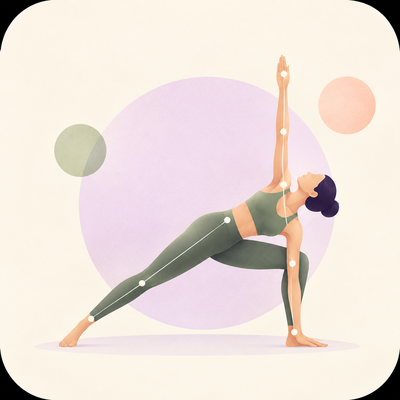
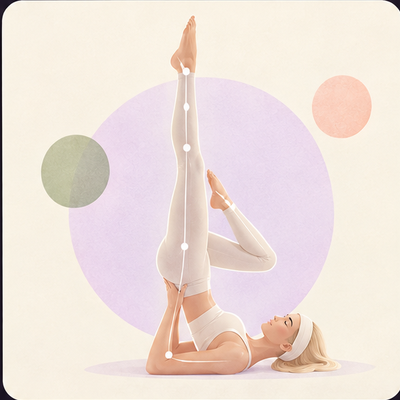
Onboarding: illustrate all four pose-interest cards
Dynamic Flow, Inversions & Balancing and Backbend were showing the calm
placeholder disc. All four now carry their own illustration, so the
placeholder branch goes with them.

diff --git a/src/app/onboarding/yoga-type/page.tsx b/src/app/onboarding/yoga-type/page.tsx
@@ -22,13 +22,12 @@ const interestedPosesSchema = z.object({
 type InterestedPosesFormValues = z.infer<typeof interestedPosesSchema>;
 
 // Pose-interest cards — an illustration on the art panel + caption below, matching
-// the "Pick your path" (yoga goals) cards. `image: null` shows a calm placeholder
-// until that illustration is added.
+// the "Pick your path" (yoga goals) cards.
 const poseCategoryOptions = [
-  { id: "dynamic-flow",         label: "Dynamic Flow",           line: "Move with your breath",  image: null as string | null },
+  { id: "dynamic-flow",         label: "Dynamic Flow",           line: "Move with your breath",  image: "/images/dynamic_flow.png" },
   { id: "structural-alignment", label: "Structural Alignment",   line: "Build precise control",  image: "/images/structural_alignment.png" },
-  { id: "inversions-balancing", label: "Inversions & Balancing", line: "Find strength and lift", image: null as string | null },
-  { id: "backbend",             label: "Backbend",               line: "Open with confidence",   image: null as string | null },
+  { id: "inversions-balancing", label: "Inversions & Balancing", line: "Find strength and lift", image: "/images/arm_balancing.png" },
+  { id: "backbend",             label: "Backbend",               line: "Open with confidence",   image: "/images/backbend_alignment.png" },
 ];
 
 
@@ -141,15 +140,9 @@ export default function InterestedPosesPage() {
                           boxShadow: isChecked ? selShadow : 'none',
                         }}
                       >
-                        <div className="aspect-square" style={option.image ? undefined : { background: 'radial-gradient(circle at 50% 42%, #F4EEE2, #E3D9EE)' }}>
-                          {option.image ? (
-                            // eslint-disable-next-line @next/next/no-img-element
-                            <img src={option.image} alt={option.label} className="w-full h-full object-cover" />
-                          ) : (
-                            <div className="w-full h-full flex items-center justify-center">
-                              <div style={{ width: '62%', height: '62%', borderRadius: '50%', background: 'radial-gradient(circle at 40% 35%, #DCCBE8, #C9BC7E)', opacity: 0.4 }} />
-                            </div>
-                          )}
+                        <div className="aspect-square">
+                          {/* eslint-disable-next-line @next/next/no-img-element */}
+                          <img src={option.image} alt={option.label} className="w-full h-full object-cover" />
                         </div>
                         <div style={{ padding: '14px 13px', background: capBg, flexGrow: 1 }}>
                           <p style={{ fontSize: 16, fontWeight: 600, lineHeight: 1.2, margin: 0, color: capName, overflowWrap: 'break-word' }}>{option.label}</p>
